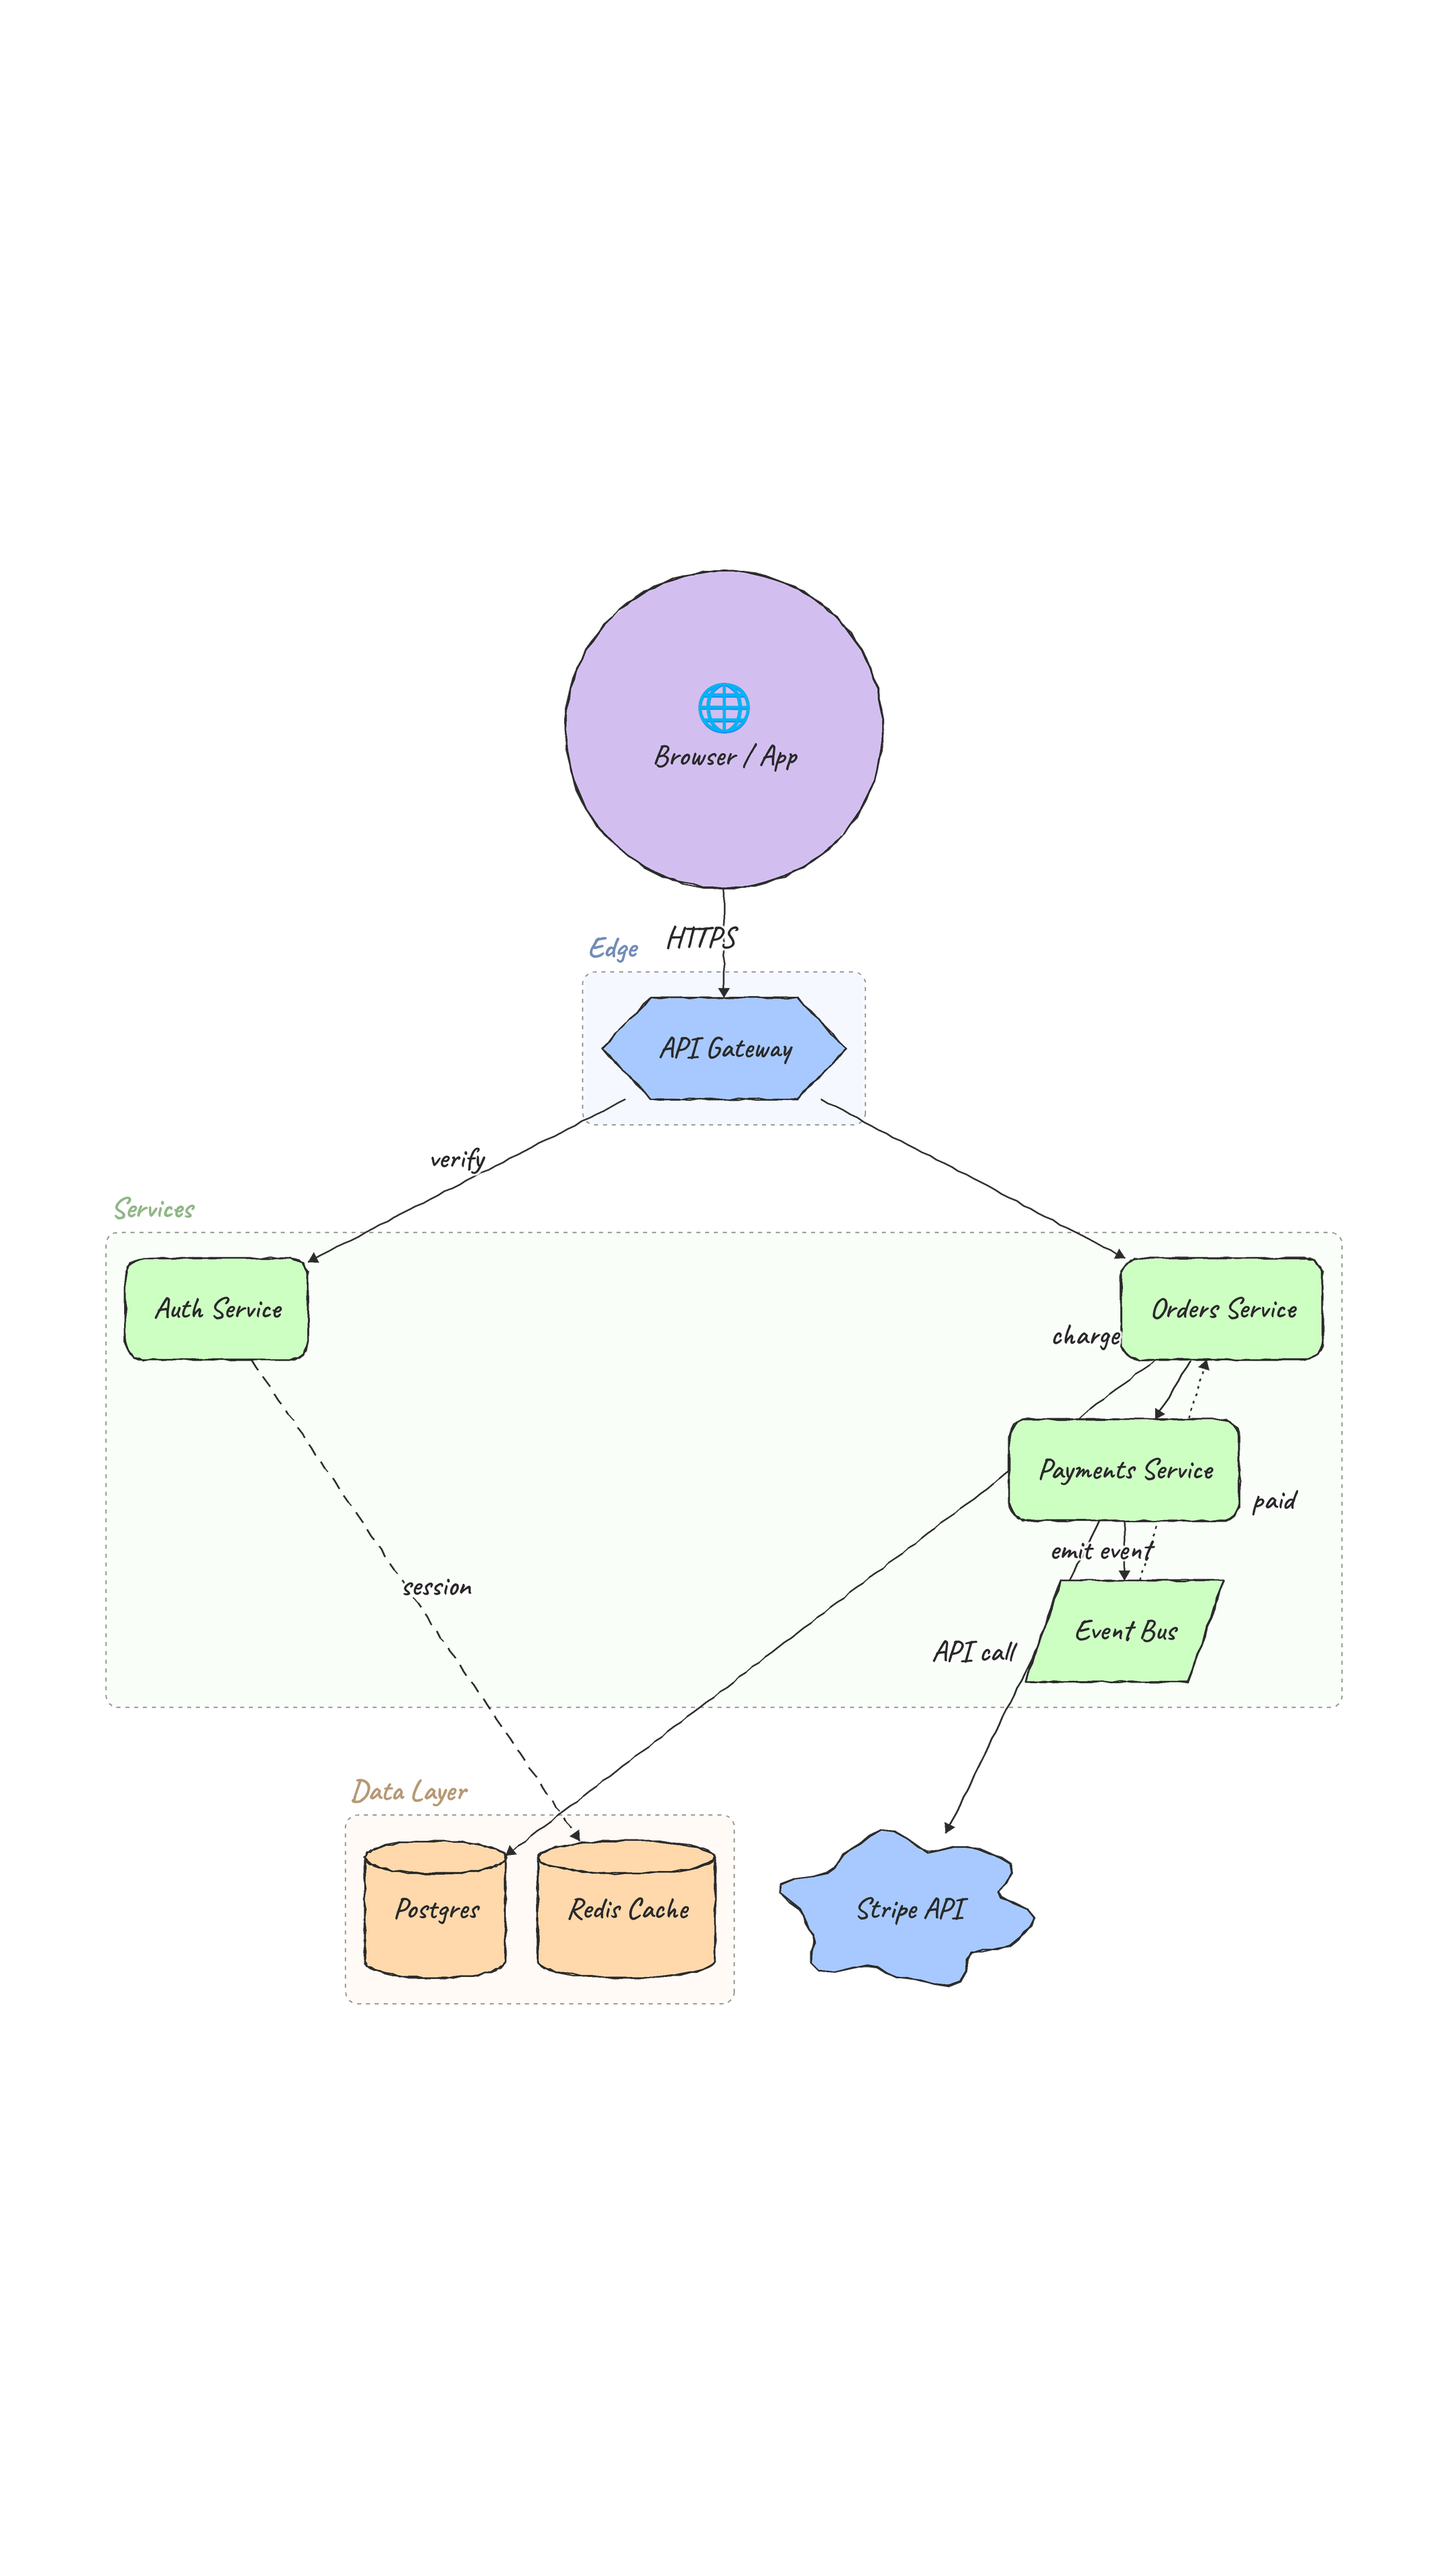
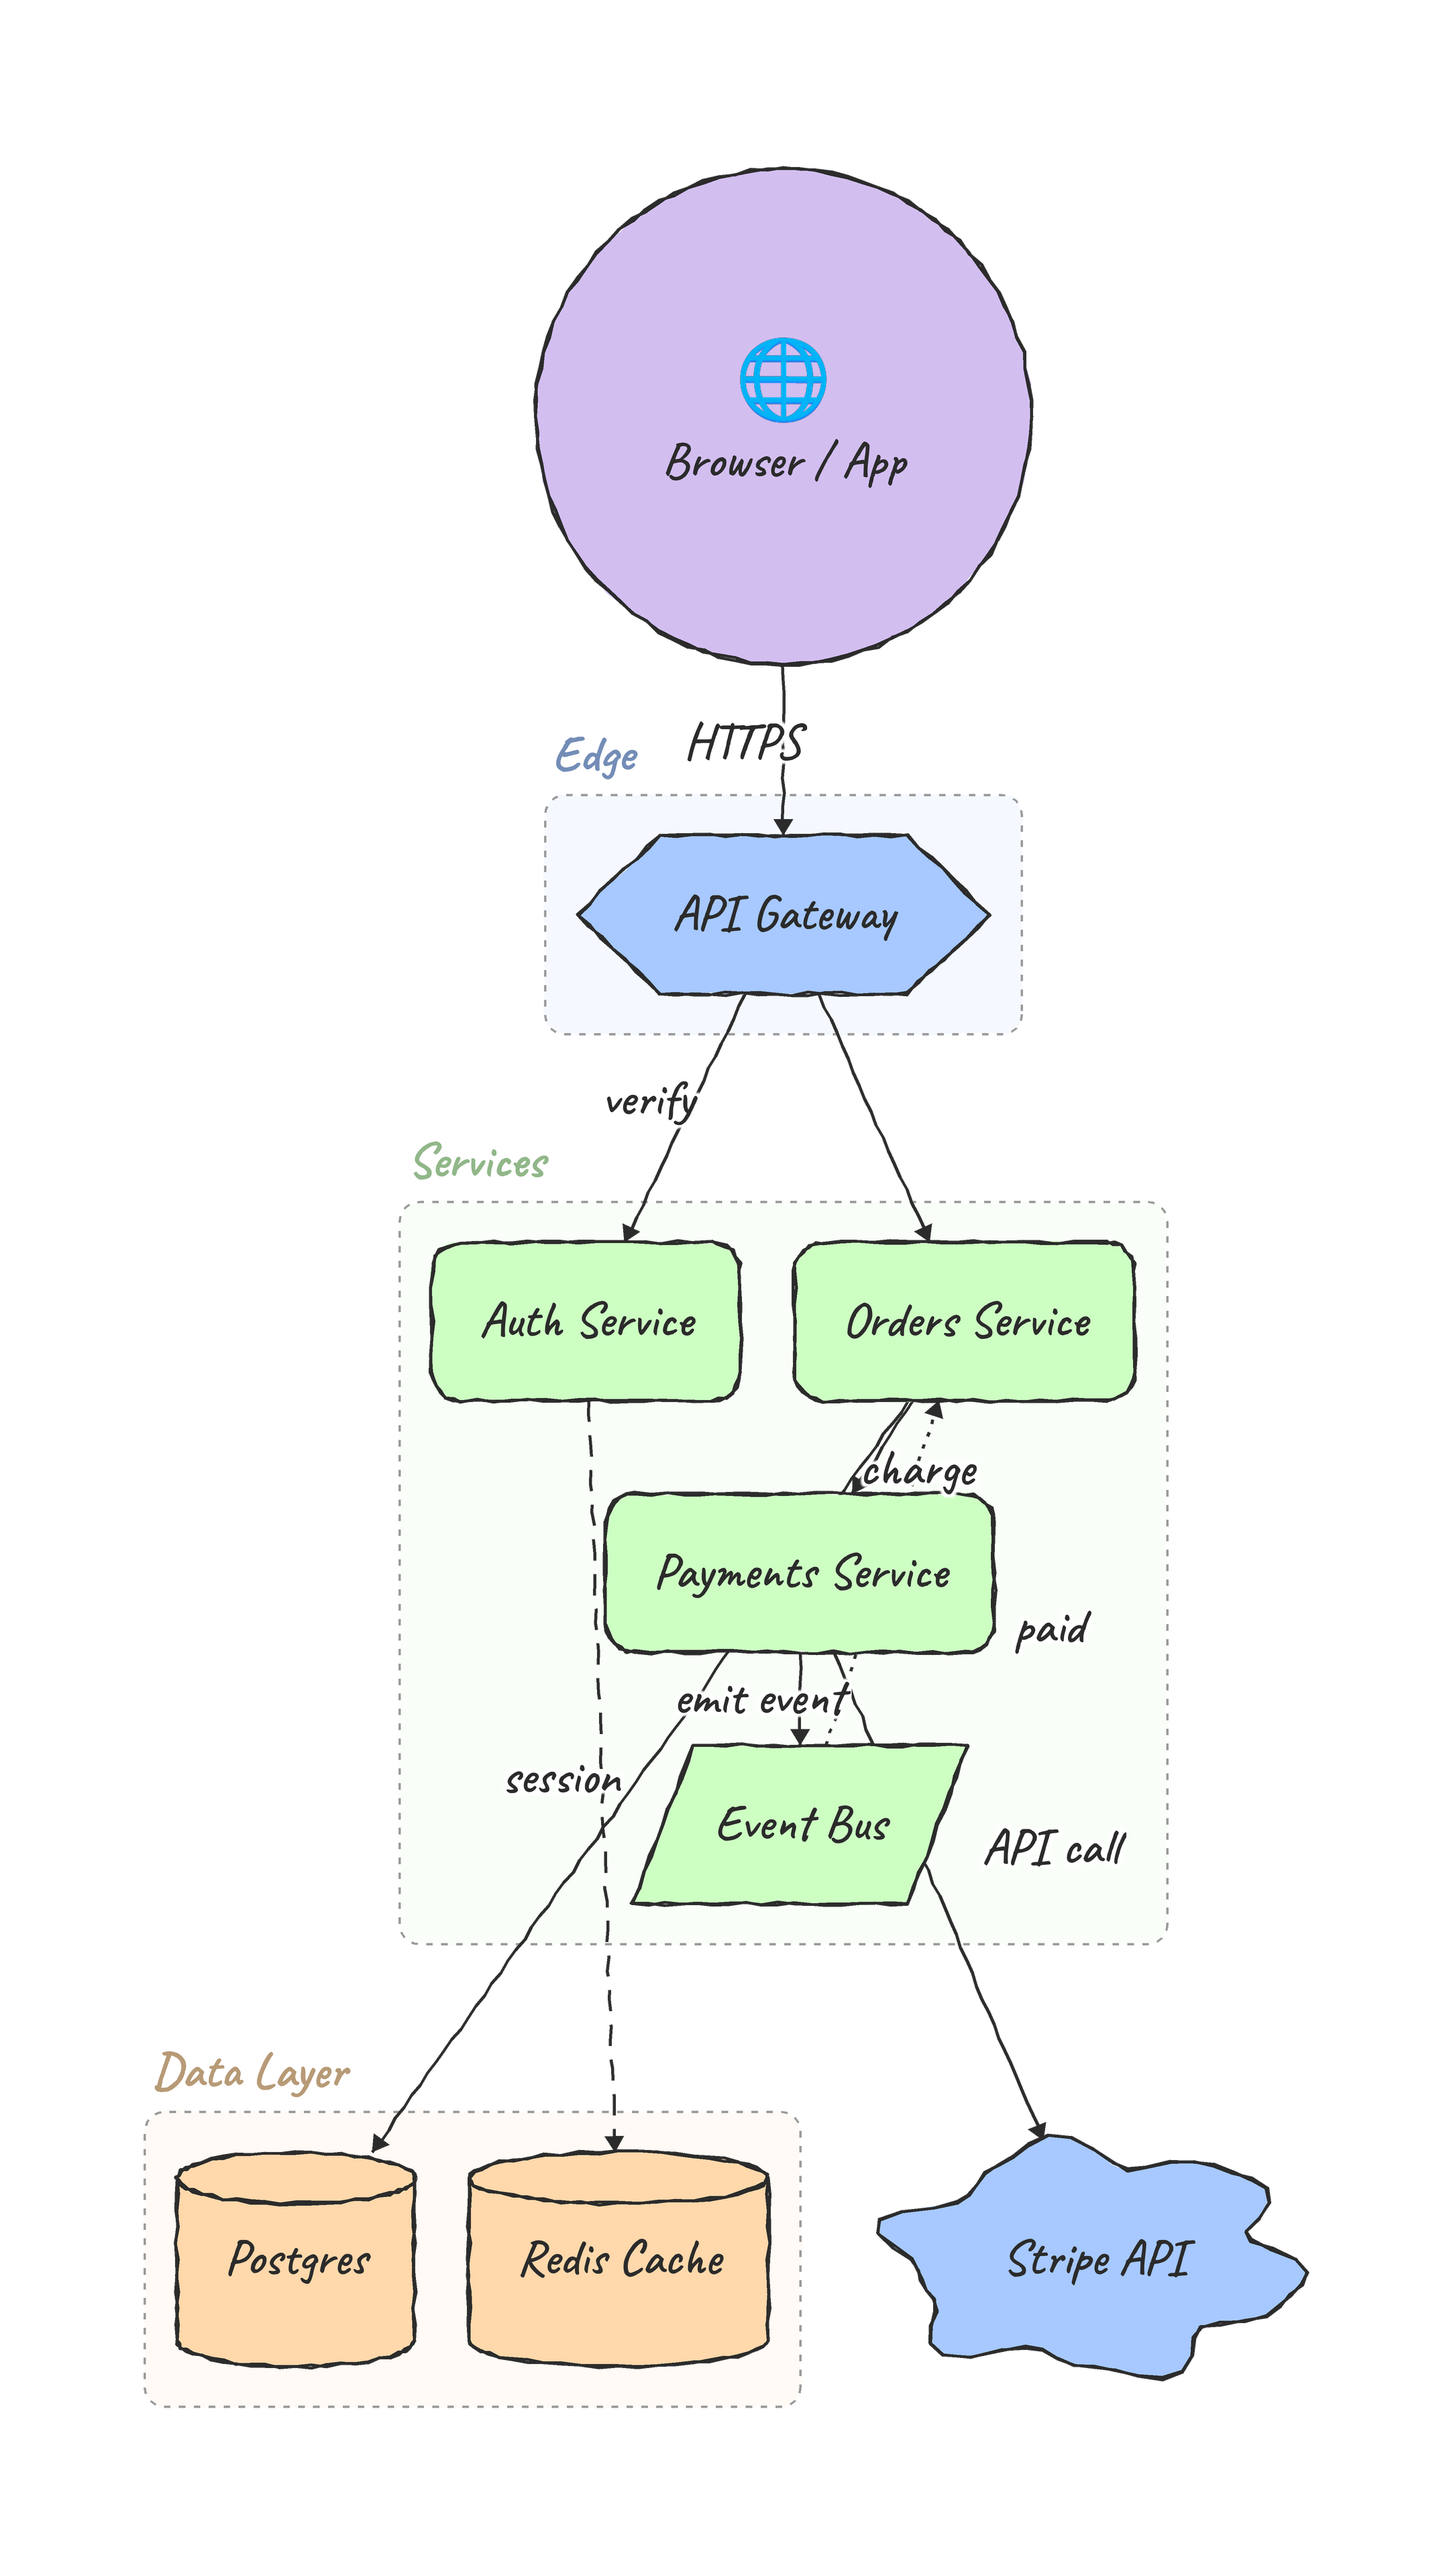
Compact loose nodes so clusters/diagrams aren't overly wide
A node with no neighbours above or below (e.g. a group member that only
connects outside its group) could drift far from its siblings, leaving a
big horizontal gap and an oversized cluster box (the Services box was
~1700px wide). Add a compaction pass that pulls such free nodes next to
their layer siblings -- the Services cluster drops to ~620px and the whole
architecture becomes portrait-shaped, filling the 9:16 frame.

Claude-Session: https://claude.ai/code/session_01PkQ793Mrcet6GuHUUkKXnM

diff --git a/flowblow/layout.py b/flowblow/layout.py
@@ -451,6 +451,25 @@ class _Engine:
             else:
                 align(down, list(range(len(self.layers) - 1, -1, -1)))
 
+        # Compaction: nodes with no neighbours above or below tend to drift far
+        # from their siblings, leaving big gaps (and oversized cluster boxes).
+        # Pull each such "free" node next to its layer siblings.
+        for _ in range(4):
+            for layer in self.layers:
+                for i, nid in enumerate(layer):
+                    if up[nid] or down[nid]:
+                        continue
+                    n = self.nodes[nid]
+                    left = self.nodes[layer[i - 1]] if i > 0 else None
+                    right = self.nodes[layer[i + 1]] if i < len(layer) - 1 else None
+                    if left and right:
+                        n.cross = (left.cross + right.cross) / 2
+                    elif left:
+                        n.cross = left.cross + cross_size(left) / 2 + cross_size(n) / 2 + SIBLING_GAP
+                    elif right:
+                        n.cross = right.cross - cross_size(right) / 2 - cross_size(n) / 2 - SIBLING_GAP
+                resolve(layer)
+
     # -- 6. project to pixels ----------------------------------------------
     def finalize(self) -> Layout:
         # Main-axis position per rank from per-rank max main-size.
